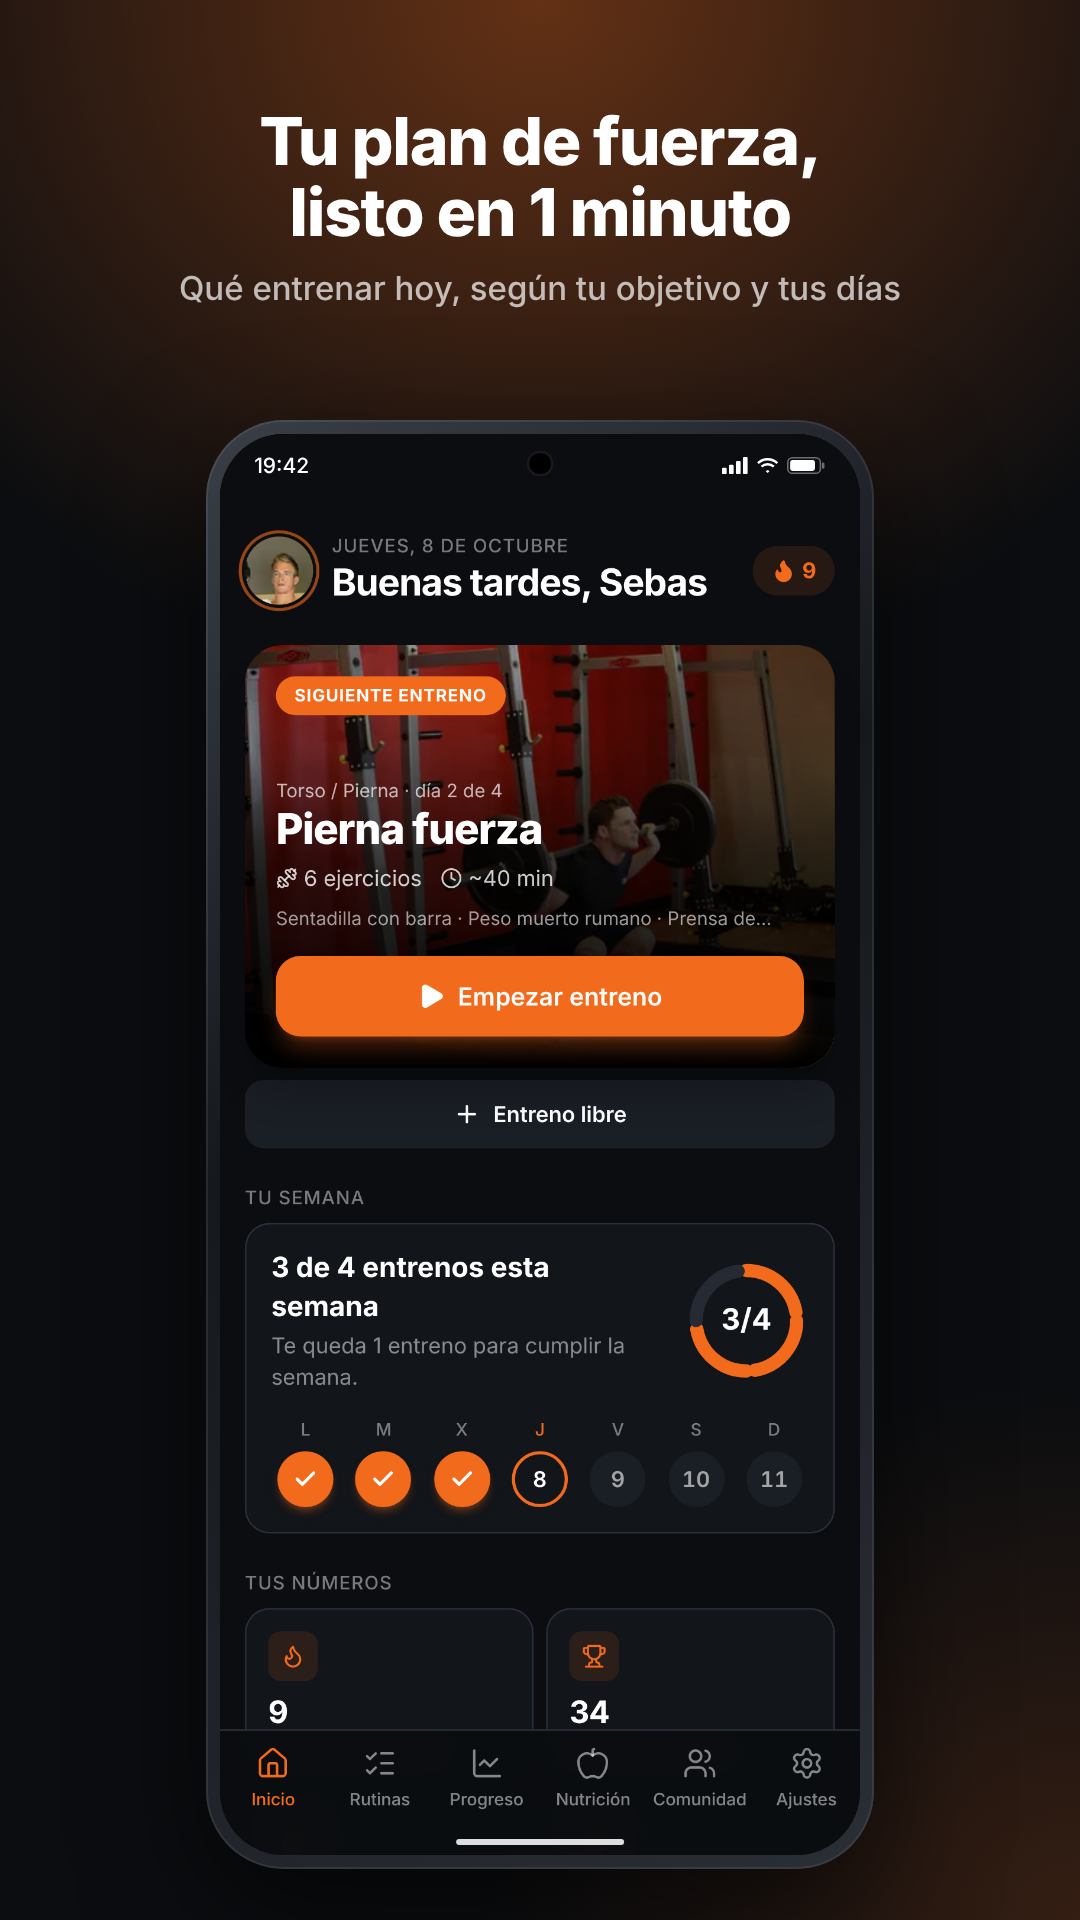
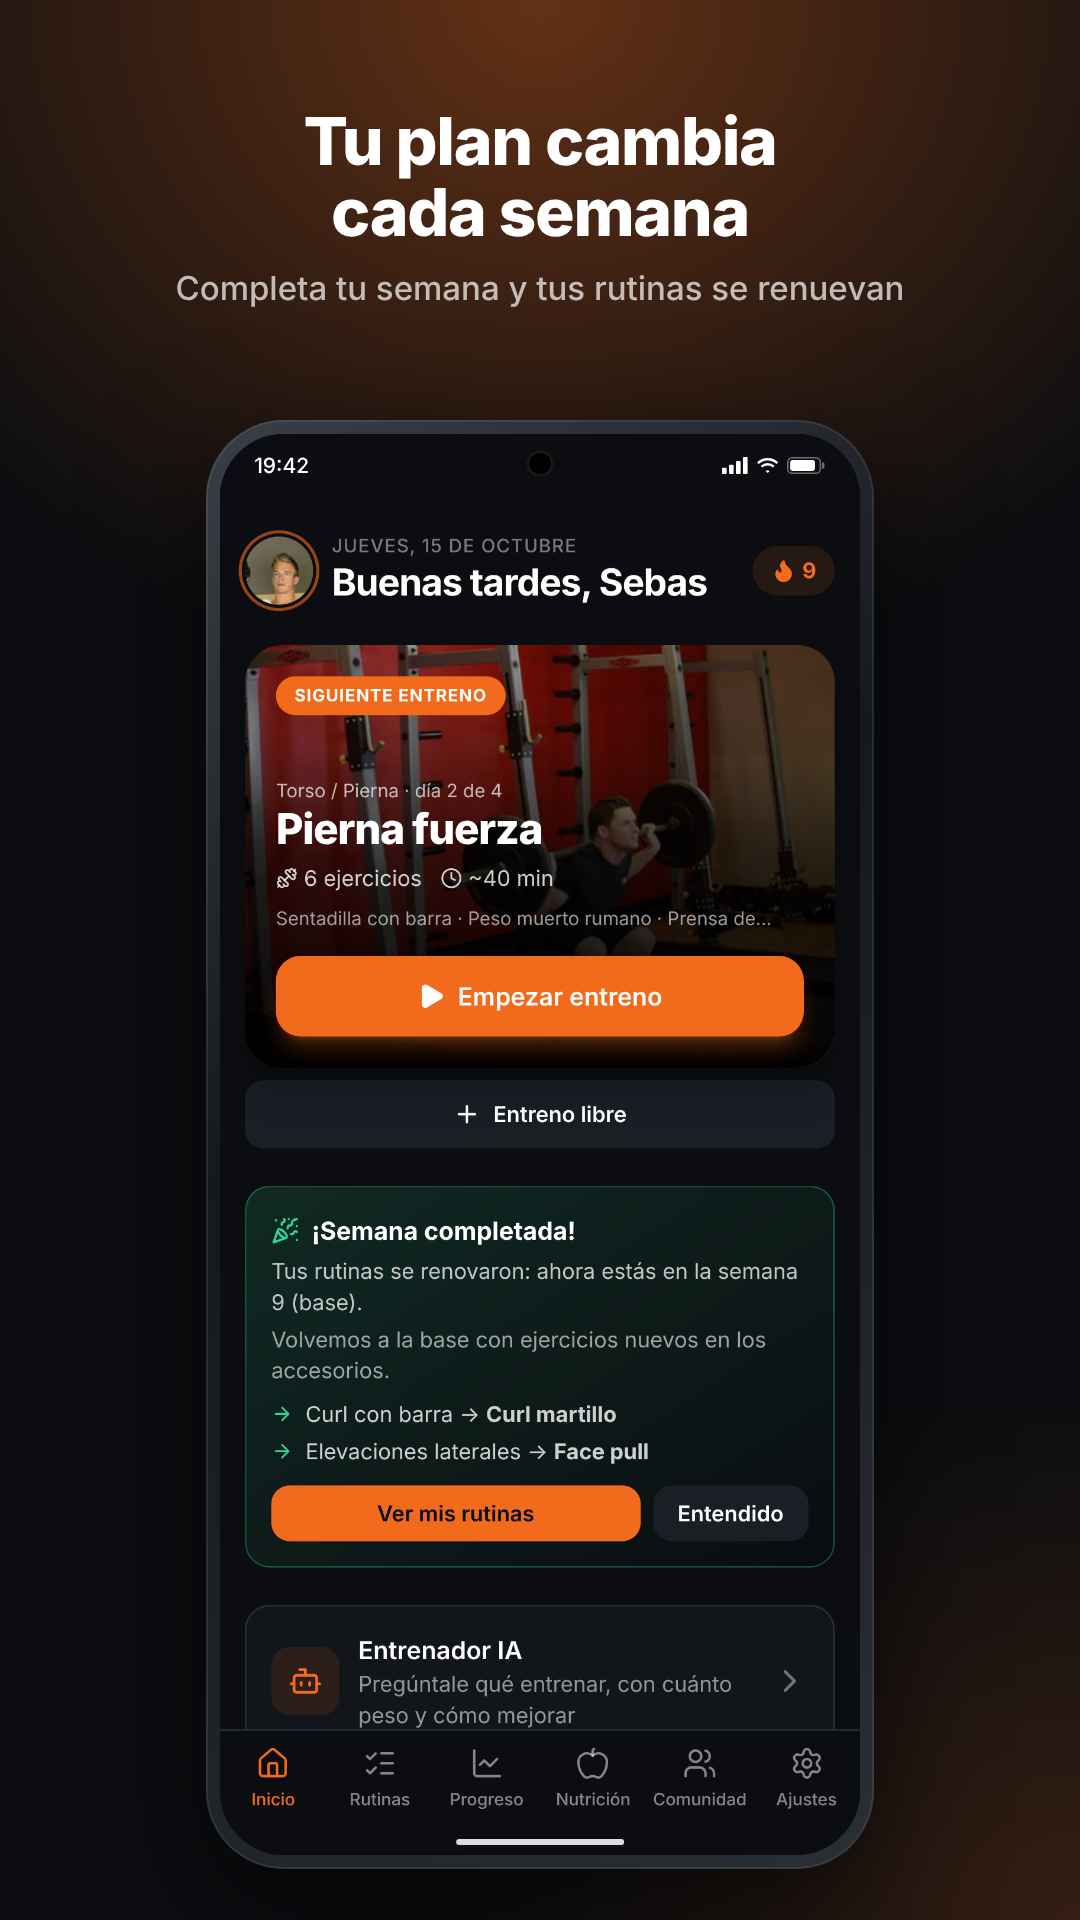
New Play Store screenshots and listing text for the latest features
Eight new phone screenshots: weekly plan update, rest timer and repeat set,
busy machine, AI trainer, women's training, Gym Wrapped, nutrition with BMI,
and Premium with the 7-day free trial. The description covers the new
features, and the guide has draft answers for the production access form.

Claude-Session: https://claude.ai/code/session_017MHen2SUX2v4EXgUuM38jA

diff --git a/store/google-play.md b/store/google-play.md
@@ -3,13 +3,14 @@
 Todo lo que pide Play Console, listo para copiar. Las imágenes están en [`google-play/`](google-play/):
 - **Icono de la app:** `icon-512.png` (512×512).
 - **Gráfico de funciones:** `feature-graphic.png` (1024×500).
-- **Capturas de pantalla del teléfono:** de `01-inicio.png` a `08-premium.png` (1080×1920), en ese orden.
+- **Capturas de pantalla del teléfono:** de `01-inicio.png` a `08-premium.png` (1080×1920), en ese orden:
+  `01-inicio`, `02-entreno`, `03-maquina-ocupada`, `04-entrenador-ia`, `05-mujeres`, `06-gym-wrapped`, `07-nutricion`, `08-premium`.
 
 ## Ficha de Play Store principal
 
 **Nombre de la app** (máx. 30): `Fitness Life: Gym y Nutrición`
 
-**Descripción breve** (máx. 80): `Plan de gimnasio a tu medida, progreso y coach de nutrición con IA.`
+**Descripción breve** (máx. 80): `Plan de gym o casa, entrenador con IA y nutrición. Prueba Premium 7 días gratis.`
 
 **Descripción completa:**
 
@@ -17,23 +18,33 @@ Todo lo que pide Play Console, listo para copiar. Las imágenes están en [`goog
 Fitness Life arma tu plan de fuerza en un minuto y te acompaña en cada entreno, cada comida y cada récord.
 
 TU PLAN, A TU MEDIDA
-• Dinos tu objetivo (ganar músculo, ganar fuerza o ponerte en forma), tu nivel y cuántos días entrenas.
-• Recibe rutinas listas para el gimnasio, con mancuernas o en casa sin material, con series, repeticiones y descansos.
-• Inicio te muestra qué toca entrenar hoy y cómo vas en la semana.
+• Dinos tu objetivo, tu nivel, tus días y dónde entrenas: gimnasio, mancuernas o en casa sin material.
+• Tu plan avanza cada semana: al completar tu semana, tus rutinas se renuevan con nuevas fases y ejercicios.
+• Sección de entrenamiento para mujeres: planes para bajar de peso o tonificar, en casa o en el gimnasio.
 
-ENTRENA CON TÉCNICA
-• Fotos de los 45 ejercicios y consejos para hacerlos bien.
-• Registra peso y repeticiones serie a serie, con temporizador de descanso.
-• La app te dice cuándo subir de peso: progresión automática en cada ejercicio.
+TU ENTRENADOR PERSONAL CON IA (PREMIUM)
+• Pregúntale qué entrenar hoy, con cuánto peso y cómo mejorar.
+• Pídele una rutina para casa sin material, con mancuernas o para el gym, y la guarda en tu plan.
 
-MIRA CÓMO PROGRESAS
-• Constancia por semanas, 1RM estimado por ejercicio y volumen total.
-• Peso corporal con gráfica.
-• Logros y récords celebrados al terminar cada entreno.
+ENTRENA MEJOR
+• Fotos de cada ejercicio y consejos de técnica.
+• Temporizador de descanso automático con vibración y sonido.
+• Repite la serie anterior con un toque y la app te dice cuándo subir de peso.
+• ¿Máquina ocupada? Cámbiala al instante por otro ejercicio del mismo músculo.
+• Alertas de recuperación: te avisa cuando tus músculos ya descansaron.
+• Funciona sin internet: tus entrenos se guardan y se sincronizan al volver la señal.
+
+MIRA Y COMPARTE TU PROGRESO
+• Constancia por semanas, 1RM estimado, volumen y peso corporal.
+• Tu actividad: calendario con los días que entrenas y tus rachas.
+• Gym Wrapped: tu mes en tarjetas para Instagram, Facebook y TikTok, con un fondo de gym o tu propia foto.
+• Antes y después: compara tus fotos y compártelas.
+• Pasos, calorías activas y pulso desde Health Connect.
 
 NUTRICIÓN SIN COMPLICARTE
 • Calorías, proteína, carbohidratos y grasa del día, con objetivos según tu meta.
-• Tabla de alimentos con 94 alimentos comunes: huevo, pollo, pescado, arroz, frutas y más.
+• Índice de masa corporal (IMC) y tu rango de peso saludable.
+• Tabla con 94 alimentos comunes.
 • Premium: toma una foto de tu comida y la IA calcula los macros.
 • Premium: coach de nutrición con IA que conoce tu objetivo y lo que llevas comido hoy.
 
@@ -42,12 +53,12 @@ COMUNIDAD
 • Reporta y bloquea con un toque: tolerancia cero con el contenido ofensivo.
 
 TU CUENTA, TUS DATOS
-• Úsala sin cuenta o crea una para guardar una copia en la nube.
+• Úsala sin cuenta o entra con tu correo, Google o Facebook para guardar una copia en la nube.
 • Sin anuncios. No vendemos tus datos.
 • En español, inglés y portugués, con modo claro y oscuro.
 
 FITNESS LIFE PREMIUM
-Entrenar es gratis. Premium añade la IA: coach de nutrición y comidas calculadas desde una foto o una descripción. Plan mensual o anual; cancela cuando quieras desde Google Play.
+Entrenar es gratis. Premium añade la IA: entrenador personal, coach de nutrición y comidas calculadas desde una foto. Plan mensual con 7 días de prueba gratis, o plan anual. Cancela cuando quieras desde Google Play.
 
 Fitness Life no sustituye el consejo de un médico o nutricionista. Consulta a un profesional antes de empezar un programa de ejercicio o cambiar tu dieta.
 ```
@@ -119,3 +130,17 @@ Google exige **12 testers durante 14 días seguidos** antes de dejarte publicar 
 4. **Países:** elige dónde estará disponible (por ejemplo, toda Latinoamérica, España y Estados Unidos).
 5. Envía a revisión. Cuando la aprueben, copia el **enlace de participación** y mándalo a los testers. Cada uno lo abre con su Gmail, acepta e instala la app.
 6. Tras 14 días con 12 o más testers activos, ve a **Panel → Solicitar acceso a producción**.
+
+## Solicitar acceso a producción (cuestionario)
+
+Al terminar los 14 días, Play pregunta cómo fue la prueba. Borradores de respuesta. Cámbialos por lo que pase de verdad en la prueba: Google revisa que sean ciertos.
+
+- **¿Cómo reclutaste a los testers?** Familiares, amigos y compañeros del gimnasio que entrenan o quieren empezar. Les mandé el enlace de participación por WhatsApp y correo.
+- **¿Qué tan fácil fue reclutarlos?** Fácil: es una app que cualquiera que va al gimnasio o entrena en casa puede usar.
+- **Describe cómo usaron la app.** Crearon su plan, registraron entrenos en el gimnasio y en casa, usaron el temporizador de descanso, el entrenador con IA, la nutrición y compartieron su Gym Wrapped.
+- **¿Qué comentarios recibiste y cómo los recogiste?** Por mensajes directos y por los comentarios de prueba de Play. Anota aquí lo que te digan tus testers (lo que les gustó, lo que falló y lo que pidieron).
+- **¿Para quién es la app?** Adultos (18+) que quieren ganar músculo, bajar de peso o ponerse en forma, en el gimnasio o en casa.
+- **¿Qué valor aporta?** Un plan de fuerza a la medida que avanza cada semana, registro de series con progresión automática, nutrición y un entrenador con IA, todo en español, inglés y portugués.
+- **Instalaciones esperadas el primer año:** elige el rango que te parezca realista (por ejemplo, de 1.000 a 10.000).
+- **¿Hiciste cambios por la prueba?** Durante la prueba salieron las versiones 1.0.12 a 1.0.16: rutinas para casa con IA, sección para mujeres, máquina ocupada, compartir en redes, rutinas que avanzan cada semana, permisos de Health Connect corregidos y prueba gratis de Premium. Añade lo que cambies por los comentarios de tus testers.
+- **¿Está lista para producción?** Sí, si en la prueba no hubo cierres ni errores graves. Revisa antes **Calidad → Android vitals** en Play Console.
